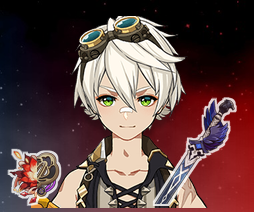
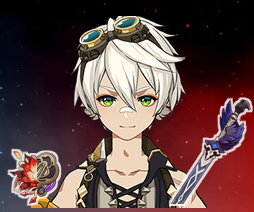
fix(components): single-source portrait geometry, fix weapon x
- extract portraitGeometry.ts as the one source of truth for portrait layout
  (sizes, positions, opacities), consumed by both the layered Portrait render
  and the Photon compositor so they can't drift
- fix weapon horizontal position: right:-4 means the icon overhangs the right
  edge by 4px (left=76), not a 4px inset (left=68) — the compositor had the sign
  flipped, placing the weapon 8px too far left and never clipping
- regenerate story portrait fixtures with the corrected position
- explain the alpha<16 antialias-fringe cutoff in withWhiteOutline

Changed region(s): [[0.6063, 0.4528, 1.0, 0.9906]]

diff --git a/ui/packages/components/src/Cards/SatoriPreviewCard/portraitCompositor.ts b/ui/packages/components/src/Cards/SatoriPreviewCard/portraitCompositor.ts
@@ -29,28 +29,27 @@ import {
 } from "./assetPaths";
 import { elementBackgrounds } from "./backgrounds";
 import { GRAY_400 } from "./colors";
+// Portrait layout constants (logical px), shared with the layered Portrait
+// render so the two agree. Everything below multiplies by the render scale
+// before touching pixels.
+import {
+	ARTIFACT_BOTTOM,
+	ARTIFACT_LEFT,
+	ARTIFACT_SIZE,
+	AVATAR_MARGIN_TOP,
+	AVATAR_SIZE,
+	ICON_OPACITY,
+	PLACEHOLDER_OPACITY,
+	PORTRAIT_H,
+	PORTRAIT_W,
+	WEAPON_BOTTOM,
+	WEAPON_RIGHT,
+	WEAPON_SIZE,
+} from "./portraitGeometry";
 
 // Resolve a relative asset path (see assetPaths) to raw image bytes. Mirrors the
 // Worker's in-process resolver output; a miss yields the placeholder bytes.
 export type ResolveBytes = (path: string) => Uint8Array | undefined;
-
-// Portrait geometry, in the card's LOGICAL px (matches Portraits.tsx exactly).
-// Everything below multiplies by the render scale before touching pixels.
-const PORTRAIT_W = 127;
-const PORTRAIT_H = 106;
-const AVATAR = 96;
-const AVATAR_MARGIN_TOP = 8;
-const WEAPON = 55;
-const WEAPON_BOTTOM = 4;
-const WEAPON_RIGHT = -4; // sticks 4px past the right edge (portrait clips it)
-const ARTIFACT = 35;
-const ARTIFACT_BOTTOM = 1;
-const ARTIFACT_LEFT = 1;
-
-// Live-card opacities (the weapon/artifact wrappers are opacity-85; the empty
-// slot's Nahida placeholder is opacity-50).
-const ICON_OPACITY = 0.85;
-const NAHIDA_OPACITY = 0.5;
 
 // Empty-slot background (tailwind gray-400), matching Portrait's char===null case.
 const EMPTY_BG = hexToRgb(GRAY_400);
@@ -116,6 +115,8 @@ function withWhiteOutline(img: PhotonImage, r: number): PhotonImage {
 	for (let y = 0; y < h; y++) {
 		for (let x = 0; x < w; x++) {
 			const a = src[(y * w + x) * 4 + 3];
+			// Skip near-transparent antialias fringe (alpha < ~6%) so the outline
+			// traces the solid silhouette, not the icon's soft anti-aliased edge.
 			if (a < 16) continue;
 			for (let dy = -r; dy <= r; dy++) {
 				for (let dx = -r; dx <= r; dx++) {
@@ -229,10 +230,10 @@ function compositePortrait(
 		const canvas = solid(pw, ph, EMPTY_BG);
 		const bytes = resolveBytes(NAHIDA_PLACEHOLDER_PATH);
 		if (bytes) {
-			const size = Math.round(AVATAR * scale);
+			const size = Math.round(AVATAR_SIZE * scale);
 			const nahida = withOpacity(
 				resizeTo(decode(bytes), size, size),
-				NAHIDA_OPACITY,
+				PLACEHOLDER_OPACITY,
 			);
 			drawAt(canvas, nahida, (pw - size) / 2, (ph - size) / 2);
 			nahida.free();
@@ -246,7 +247,7 @@ function compositePortrait(
 	// Avatar: 96x96, horizontally centred, marginTop 8 (contain; source is square).
 	const avatarBytes = resolveBytes(avatarPath(char.name));
 	if (avatarBytes) {
-		const size = Math.round(AVATAR * scale);
+		const size = Math.round(AVATAR_SIZE * scale);
 		const avatar = resizeTo(decode(avatarBytes), size, size);
 		drawAt(canvas, avatar, (pw - size) / 2, AVATAR_MARGIN_TOP * scale);
 		avatar.free();
@@ -257,11 +258,13 @@ function compositePortrait(
 		? resolveBytes(weaponPath(char.weapon.name))
 		: undefined;
 	if (weaponBytes) {
-		const size = Math.round(WEAPON * scale);
+		const size = Math.round(WEAPON_SIZE * scale);
 		let weapon = resizeTo(decode(weaponBytes), size, size);
 		weapon = withOpacity(withWhiteOutline(weapon, r), ICON_OPACITY);
-		const x = (PORTRAIT_W - WEAPON + WEAPON_RIGHT) * scale;
-		const y = (PORTRAIT_H - WEAPON - WEAPON_BOTTOM) * scale;
+		// left = W - right - size (CSS `right`): with right:-4 the icon's left is
+		// 127 - (-4) - 55 = 76, overhanging the right edge by 4px (canvas clips it).
+		const x = (PORTRAIT_W - WEAPON_RIGHT - WEAPON_SIZE) * scale;
+		const y = (PORTRAIT_H - WEAPON_SIZE - WEAPON_BOTTOM) * scale;
 		drawAt(canvas, weapon, x - r, y - r); // -r: undo the outline pad
 		weapon.free();
 	}
@@ -269,7 +272,7 @@ function compositePortrait(
 	// Artifact set(s): 35x35 (or the two-set/lone-2pc slice), bottom-left, outlined.
 	const sets = char.sets ? Object.keys(char.sets) : [];
 	if (sets.length > 0) {
-		const cell = even(Math.round(ARTIFACT * scale));
+		const cell = even(Math.round(ARTIFACT_SIZE * scale));
 		const isLoneHalf = sets.length === 1 && char.sets?.[sets[0]] === 2;
 		const setImgs: PhotonImage[] = [];
 		for (const set of sets.slice(0, 2)) {
@@ -285,7 +288,7 @@ function compositePortrait(
 				ICON_OPACITY,
 			);
 			const x = ARTIFACT_LEFT * scale;
-			const y = (PORTRAIT_H - ARTIFACT - ARTIFACT_BOTTOM) * scale;
+			const y = (PORTRAIT_H - ARTIFACT_SIZE - ARTIFACT_BOTTOM) * scale;
 			drawAt(canvas, gear, x - r, y - r);
 			gear.free();
 		}

diff --git a/ui/packages/components/src/Cards/SatoriPreviewCard/Portraits.tsx b/ui/packages/components/src/Cards/SatoriPreviewCard/Portraits.tsx
@@ -9,6 +9,22 @@ import {
 import { elementBackgrounds } from "./backgrounds";
 import { GRAY_400, GRAY_600, GRAY_700, levelColor, PRIMARY_BG } from "./colors";
 import { FONT_FAMILY } from "./fonts";
+// Portrait layout constants (logical px), shared with the Photon compositor so
+// the layered and composited renders place every layer identically.
+import {
+	ARTIFACT_BOTTOM,
+	ARTIFACT_HALF,
+	ARTIFACT_LEFT,
+	ARTIFACT_SIZE,
+	AVATAR_MARGIN_TOP,
+	AVATAR_SIZE,
+	ICON_OPACITY,
+	PLACEHOLDER_OPACITY,
+	WEAPON_BOTTOM,
+	WEAPON_RIGHT,
+	WEAPON_SIZE,
+	WIP_TOP,
+} from "./portraitGeometry";
 
 // Live badge accent colors (text-geo / text-electro), read from the rendered
 // PreviewCard.
@@ -72,17 +88,17 @@ const Portrait = ({
 			<div
 				style={{
 					...base,
-					backgroundColor: "#9ca3af",
+					backgroundColor: GRAY_400,
 					alignItems: "center",
 					justifyContent: "center",
 				}}
 			>
 				<img
 					src={resolveAsset(NAHIDA_PLACEHOLDER_PATH)}
-					width={96}
-					height={96}
+					width={AVATAR_SIZE}
+					height={AVATAR_SIZE}
 					alt=""
-					style={{ objectFit: "contain", opacity: 0.5 }}
+					style={{ objectFit: "contain", opacity: PLACEHOLDER_OPACITY }}
 				/>
 			</div>
 		);
@@ -149,7 +165,7 @@ const Portrait = ({
 		<div
 			style={{
 				position: "absolute",
-				top: "33%",
+				top: WIP_TOP,
 				left: 0,
 				width,
 				display: "flex",
@@ -212,53 +228,53 @@ const Portrait = ({
 			{/* avatar (h-24, top-aligned under the card's pt-2) */}
 			<img
 				src={resolveAsset(avatarPath(char.name))}
-				width={96}
-				height={96}
+				width={AVATAR_SIZE}
+				height={AVATAR_SIZE}
 				alt={char.name ?? ""}
-				style={{ objectFit: "contain", marginTop: 8 }}
+				style={{ objectFit: "contain", marginTop: AVATAR_MARGIN_TOP }}
 			/>
 
 			{/* weapon */}
 			{char.weapon?.name ? (
 				<img
 					src={resolveAsset(weaponPath(char.weapon.name))}
-					width={55}
-					height={55}
+					width={WEAPON_SIZE}
+					height={WEAPON_SIZE}
 					alt=""
 					style={{
 						position: "absolute",
-						bottom: 4,
-						right: -4,
+						bottom: WEAPON_BOTTOM,
+						right: WEAPON_RIGHT,
 						objectFit: "contain",
-						opacity: 0.85,
+						opacity: ICON_OPACITY,
 					}}
 				/>
 			) : null}
 
-			{/* artifact set(s) — 35x35, or two 17.5-wide halves for a 2-set build */}
+			{/* artifact set(s) — full flower, or two half-width halves for a 2-set build */}
 			{sets.length > 0 ? (
 				<div
 					style={{
 						position: "absolute",
-						bottom: 1,
-						left: 1,
+						bottom: ARTIFACT_BOTTOM,
+						left: ARTIFACT_LEFT,
 						display: "flex",
 						flexDirection: "row",
-						opacity: 0.85,
+						opacity: ICON_OPACITY,
 					}}
 				>
 					<img
 						src={resolveAsset(artifactFlowerPath(sets[0]))}
-						width={twoSets || isHalfWidthSet ? 17.5 : 35}
-						height={35}
+						width={twoSets || isHalfWidthSet ? ARTIFACT_HALF : ARTIFACT_SIZE}
+						height={ARTIFACT_SIZE}
 						alt=""
 						style={{ objectFit: "cover" }}
 					/>
 					{twoSets ? (
 						<img
 							src={resolveAsset(artifactFlowerPath(sets[1]))}
-							width={17.5}
-							height={35}
+							width={ARTIFACT_HALF}
+							height={ARTIFACT_SIZE}
 							alt=""
 							style={{ objectFit: "cover" }}
 						/>

diff --git a/ui/packages/components/src/Cards/SatoriPreviewCard/portraitGeometry.ts b/ui/packages/components/src/Cards/SatoriPreviewCard/portraitGeometry.ts
@@ -1,0 +1,34 @@
+// Portrait-internal layout, in the card's LOGICAL px. Single source of truth for
+// BOTH the layered Portrait render (Portraits.tsx, browser/Storybook) and the
+// Photon compositor (portraitCompositor.ts, edge Worker) — the two must place
+// every layer identically or the composited card drifts from the live preview.
+// Values mirror the live AvatarPortrait.
+
+export const PORTRAIT_W = 127;
+export const PORTRAIT_H = 106;
+
+// Avatar: square, horizontally centred, top-aligned under the card's pt-2.
+export const AVATAR_SIZE = 96;
+export const AVATAR_MARGIN_TOP = 8;
+
+// Weapon: square, bottom-right. `right:-4` overhangs the right edge by 4px (the
+// portrait's overflow:hidden clips it) — matching the CSS, so a negative value
+// means "further right".
+export const WEAPON_SIZE = 55;
+export const WEAPON_BOTTOM = 4;
+export const WEAPON_RIGHT = -4;
+
+// Artifact icon: square (or a 17.5-wide half for the two-set/lone-2pc slice),
+// bottom-left.
+export const ARTIFACT_SIZE = 35;
+export const ARTIFACT_HALF = 17.5;
+export const ARTIFACT_BOTTOM = 1;
+export const ARTIFACT_LEFT = 1;
+
+// Weapon and artifact wrappers are opacity-85; the empty-slot placeholder is
+// opacity-50.
+export const ICON_OPACITY = 0.85;
+export const PLACEHOLDER_OPACITY = 0.5;
+
+// Incomplete-build "WIP" bar, vertically at the top third of the portrait.
+export const WIP_TOP = "33%";

diff --git a/ui/packages/components/src/Cards/SatoriPreviewCard/SatoriPreviewCard.tsx b/ui/packages/components/src/Cards/SatoriPreviewCard/SatoriPreviewCard.tsx
@@ -7,6 +7,7 @@ import { SLATE_700, SLATE_800 } from "./colors";
 import { FONT_FAMILY } from "./fonts";
 import { Metadata } from "./Metadata";
 import { Portraits } from "./Portraits";
+import { PORTRAIT_H, PORTRAIT_W } from "./portraitGeometry";
 
 // Default asset host, matching the live asset URL scheme. Absolute so Satori
 // (which has no dev-server proxy) can fetch the images at render time.
@@ -41,9 +42,8 @@ const CARD_W = 540;
 const CARD_H = 250;
 const INSET = 4; // the live card's m-1 / ml-1 / mr-1 / mb-1
 
-// Portrait row: 4 portraits, each 127x106 with a 4px margin (grid-cols-4 + m-1).
-const PORTRAIT_W = 127;
-const PORTRAIT_H = 106;
+// Portrait row: 4 portraits, each PORTRAIT_W x PORTRAIT_H (from ./portraitGeometry)
+// with a 4px margin (grid-cols-4 + m-1).
 const PORTRAIT_MARGIN = 4;
 
 // Graph row: timeline + histogram are wide (w-48 shrunk to 154), the two pies
